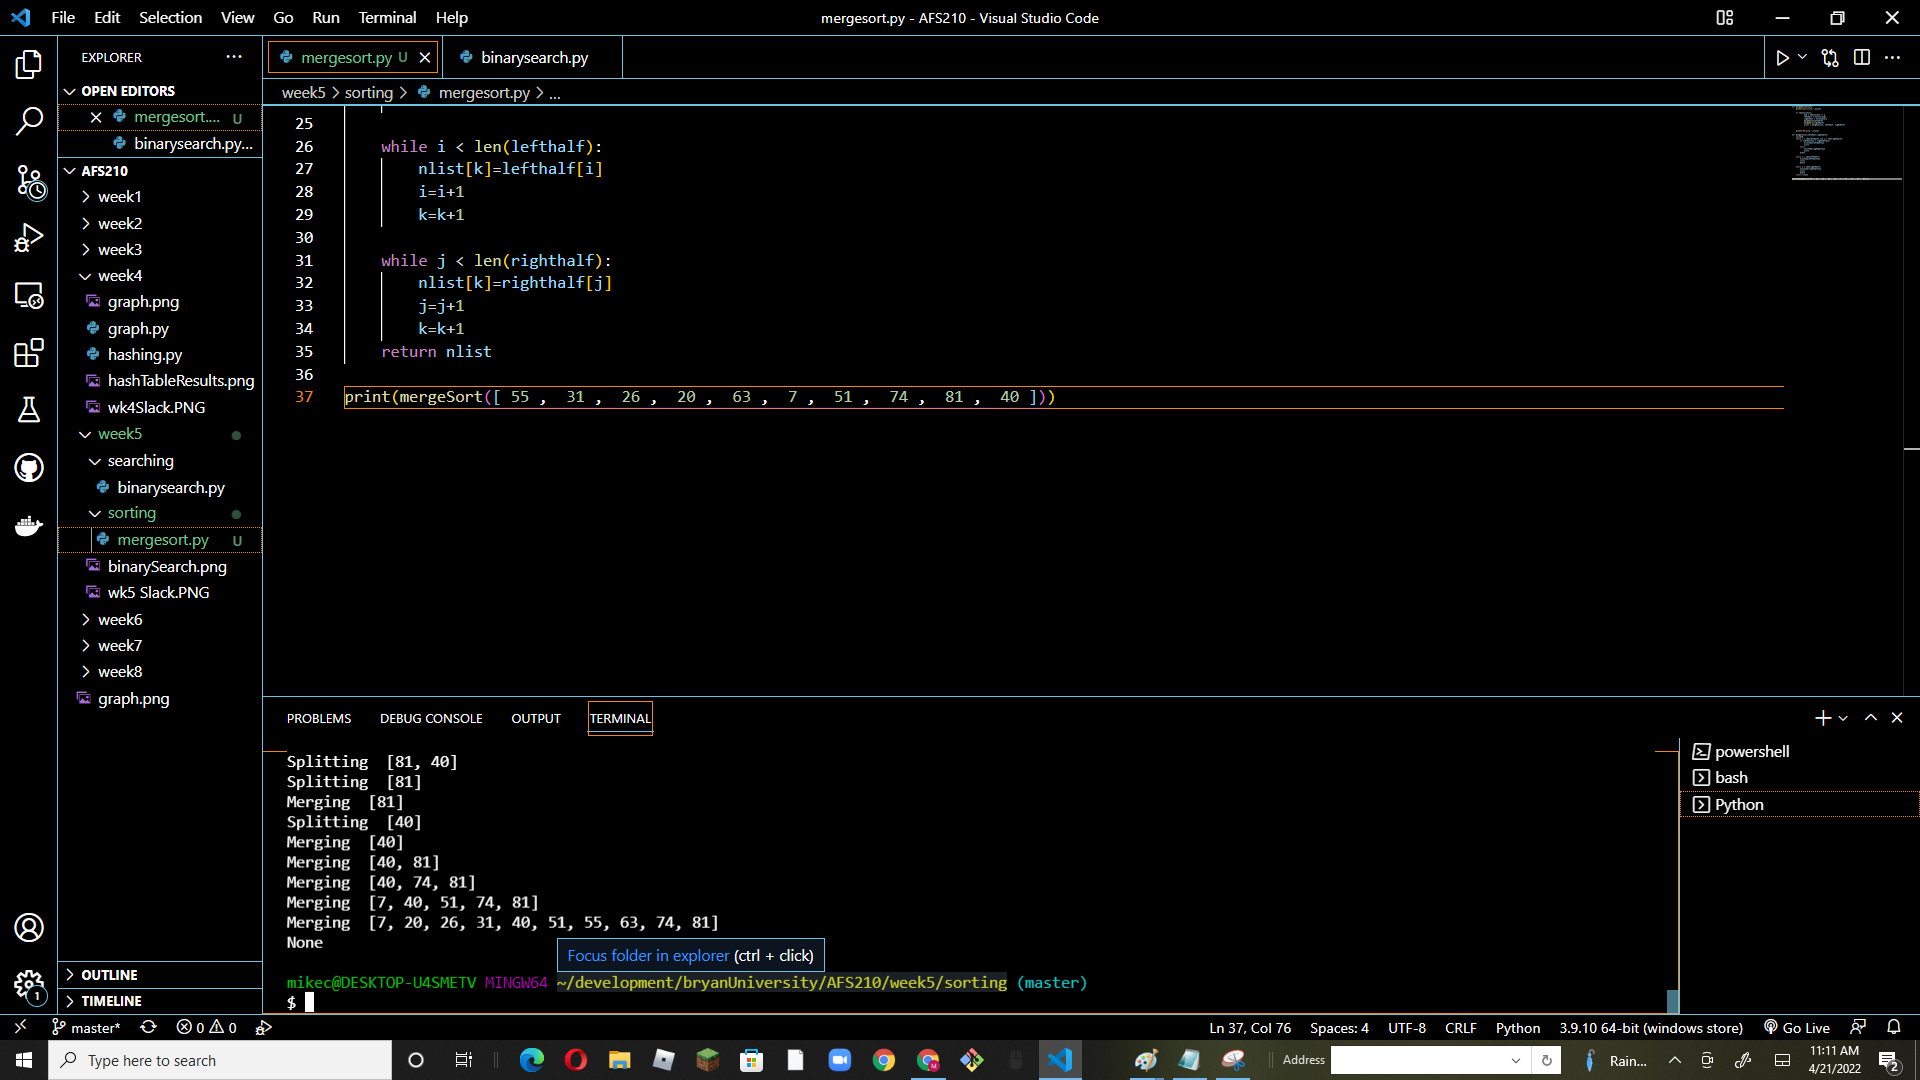
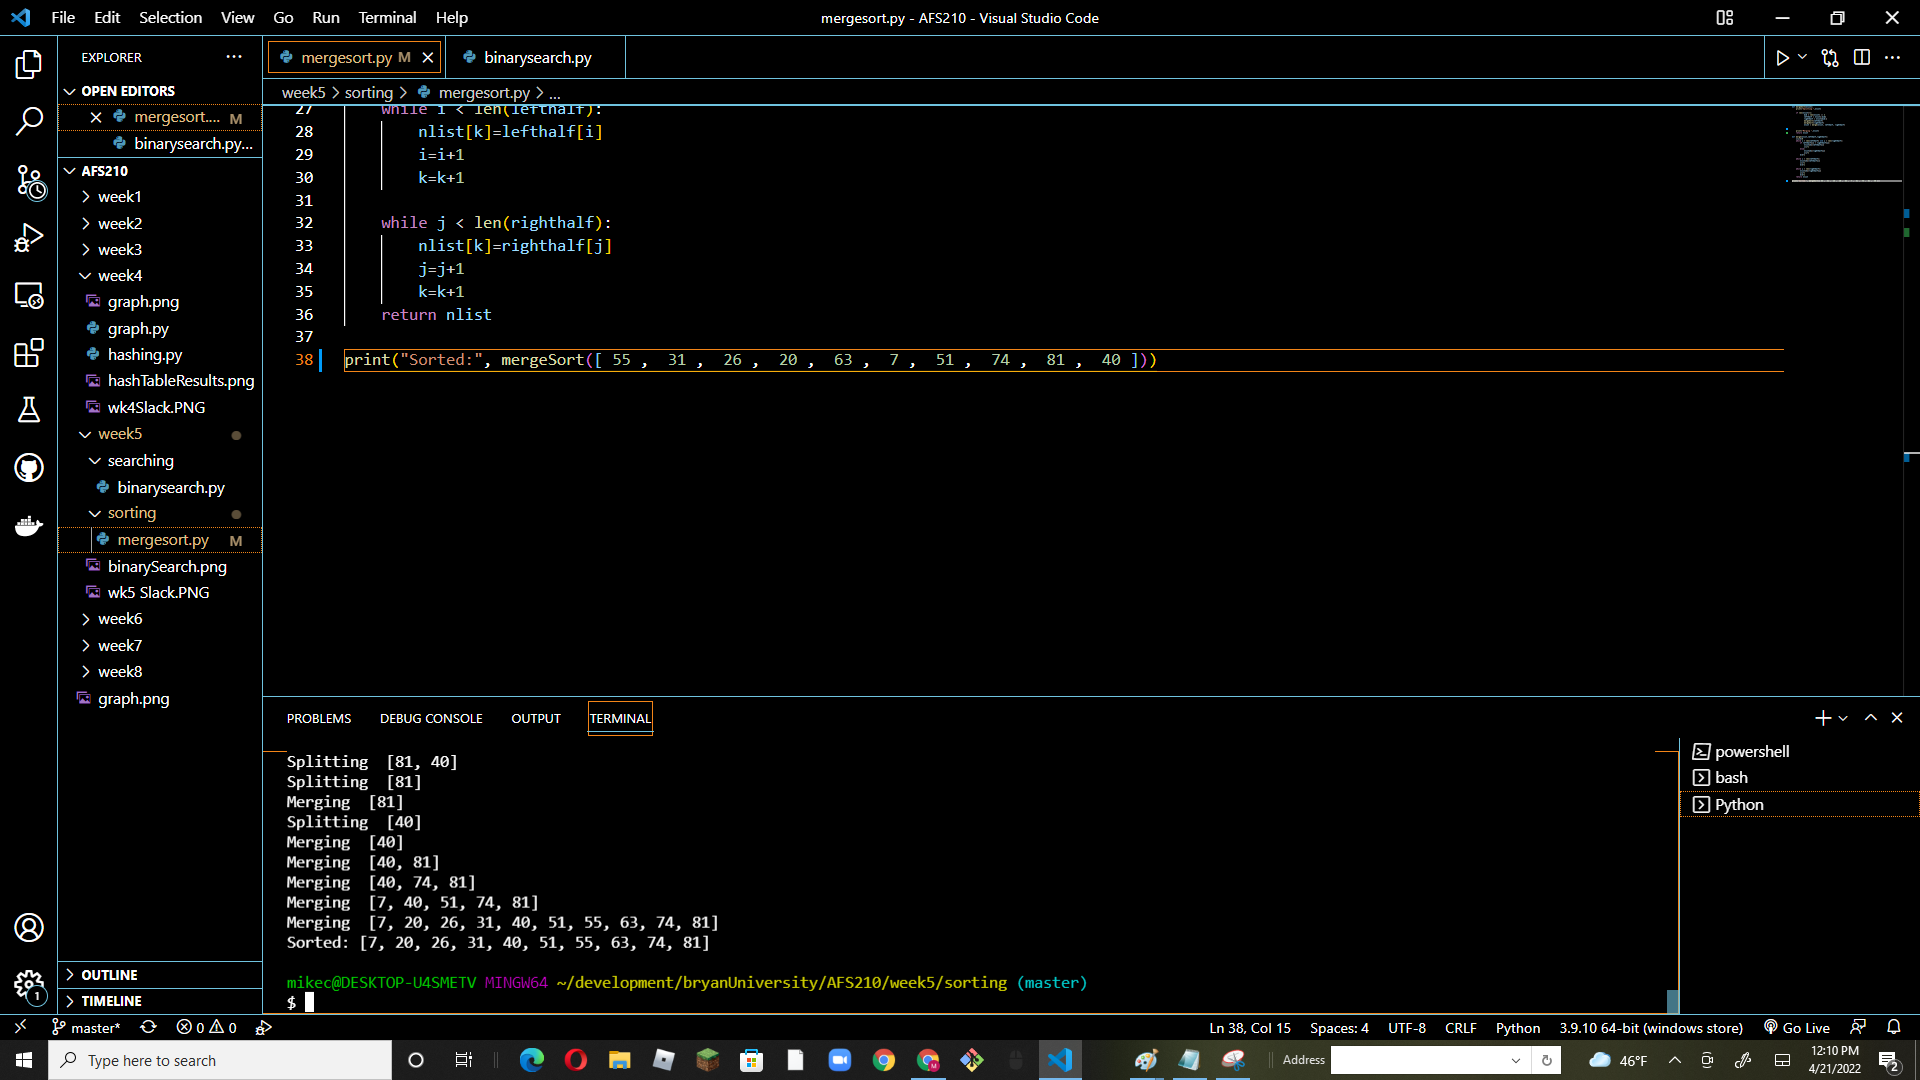
2nd

diff --git a/week5/sorting/mergesort.py b/week5/sorting/mergesort.py
@@ -9,8 +9,9 @@ def mergeSort(nlist):
             mergeSort(righthalf)
             nlist = merge(nlist, lefthalf, righthalf)
 
-
+    
     print("Merging ",nlist)
+    return nlist
 
 def merge(nlist,lefthalf,righthalf):
     i=j=k=0       
@@ -34,4 +35,4 @@ def merge(nlist,lefthalf,righthalf):
         k=k+1
     return nlist
 
-print(mergeSort([ 55 ,  31 ,  26 ,  20 ,  63 ,  7 ,  51 ,  74 ,  81 ,  40 ]))
+print("Sorted:", mergeSort([ 55 ,  31 ,  26 ,  20 ,  63 ,  7 ,  51 ,  74 ,  81 ,  40 ]))
